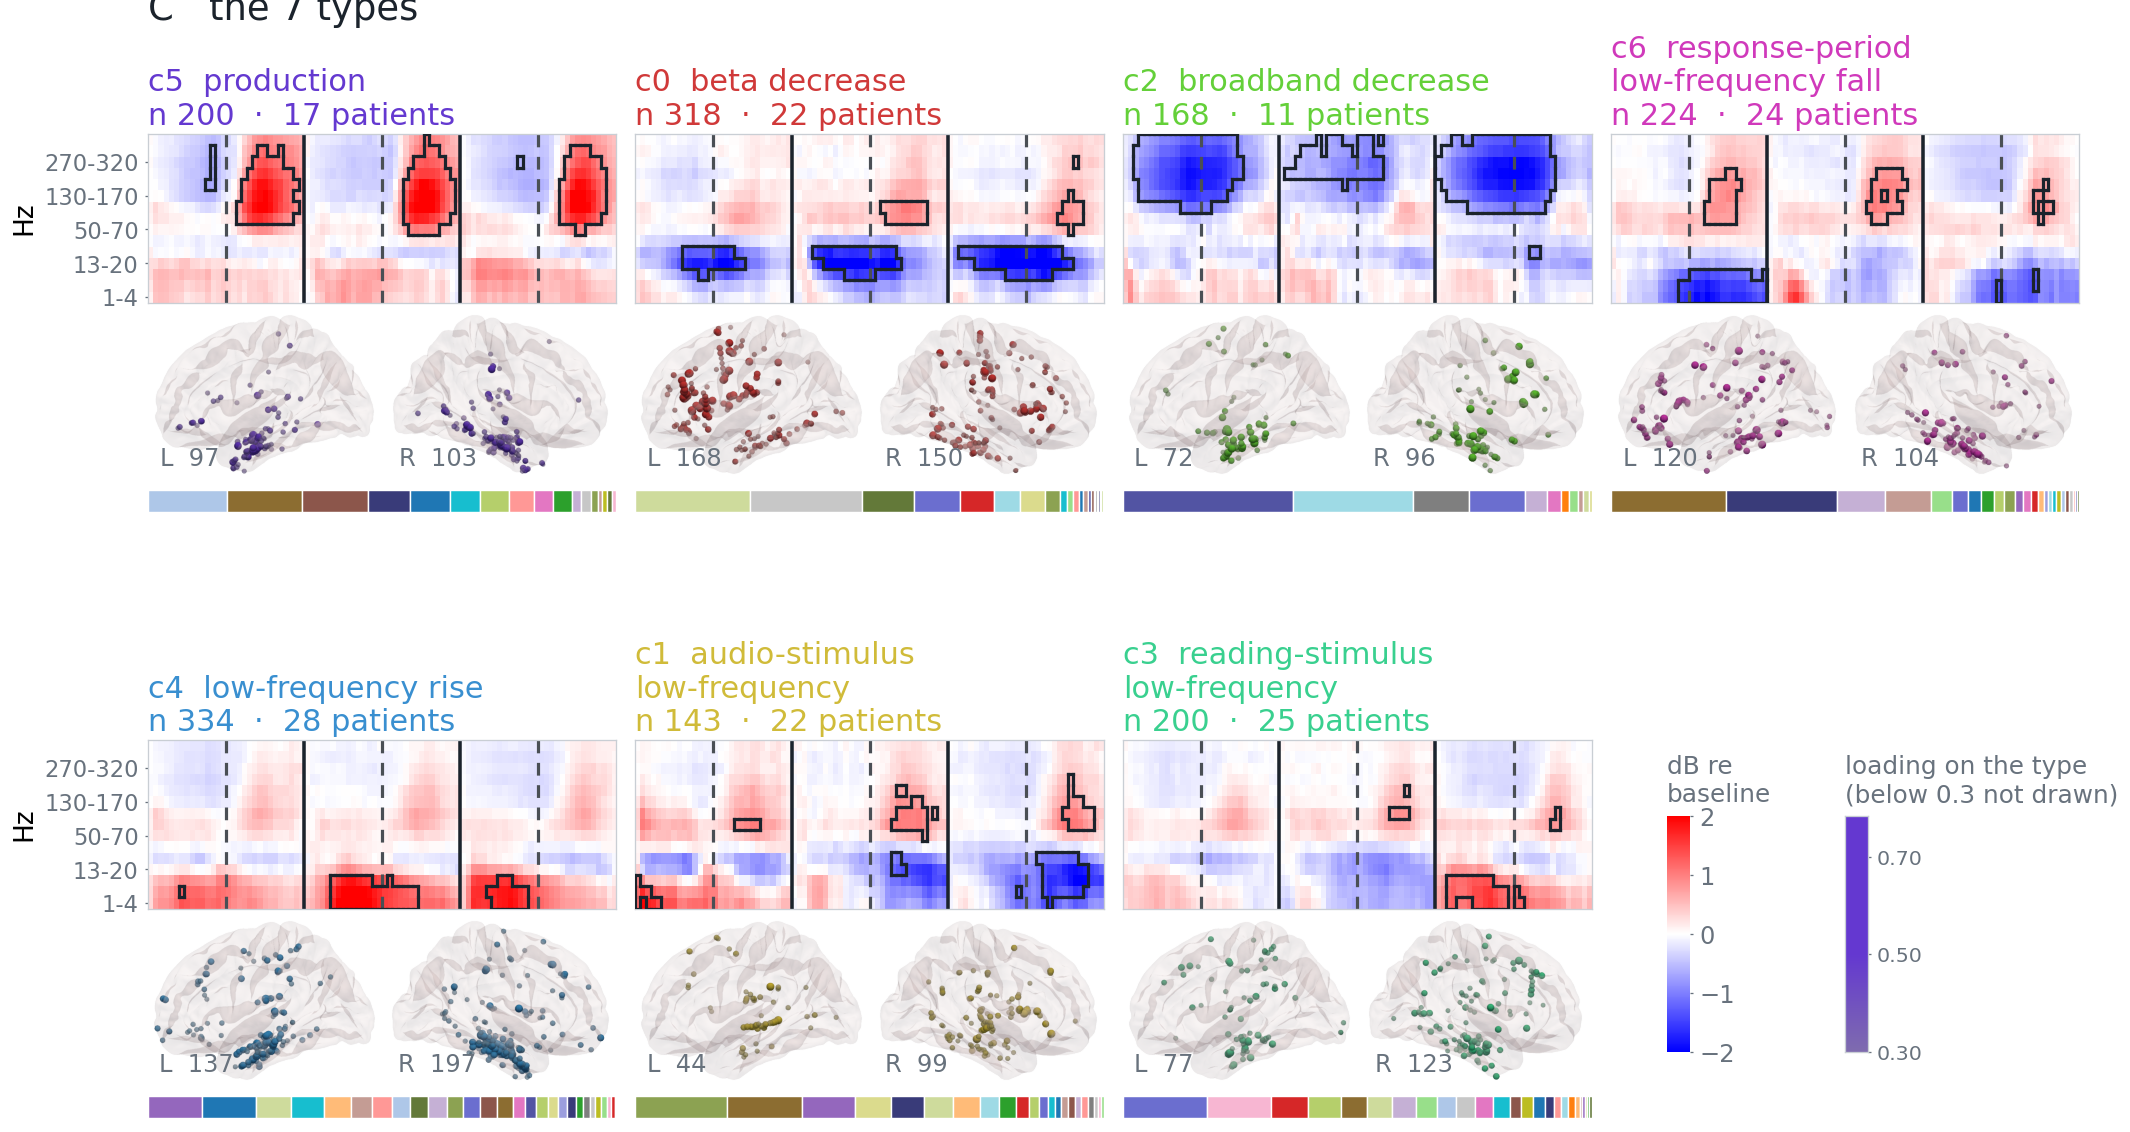
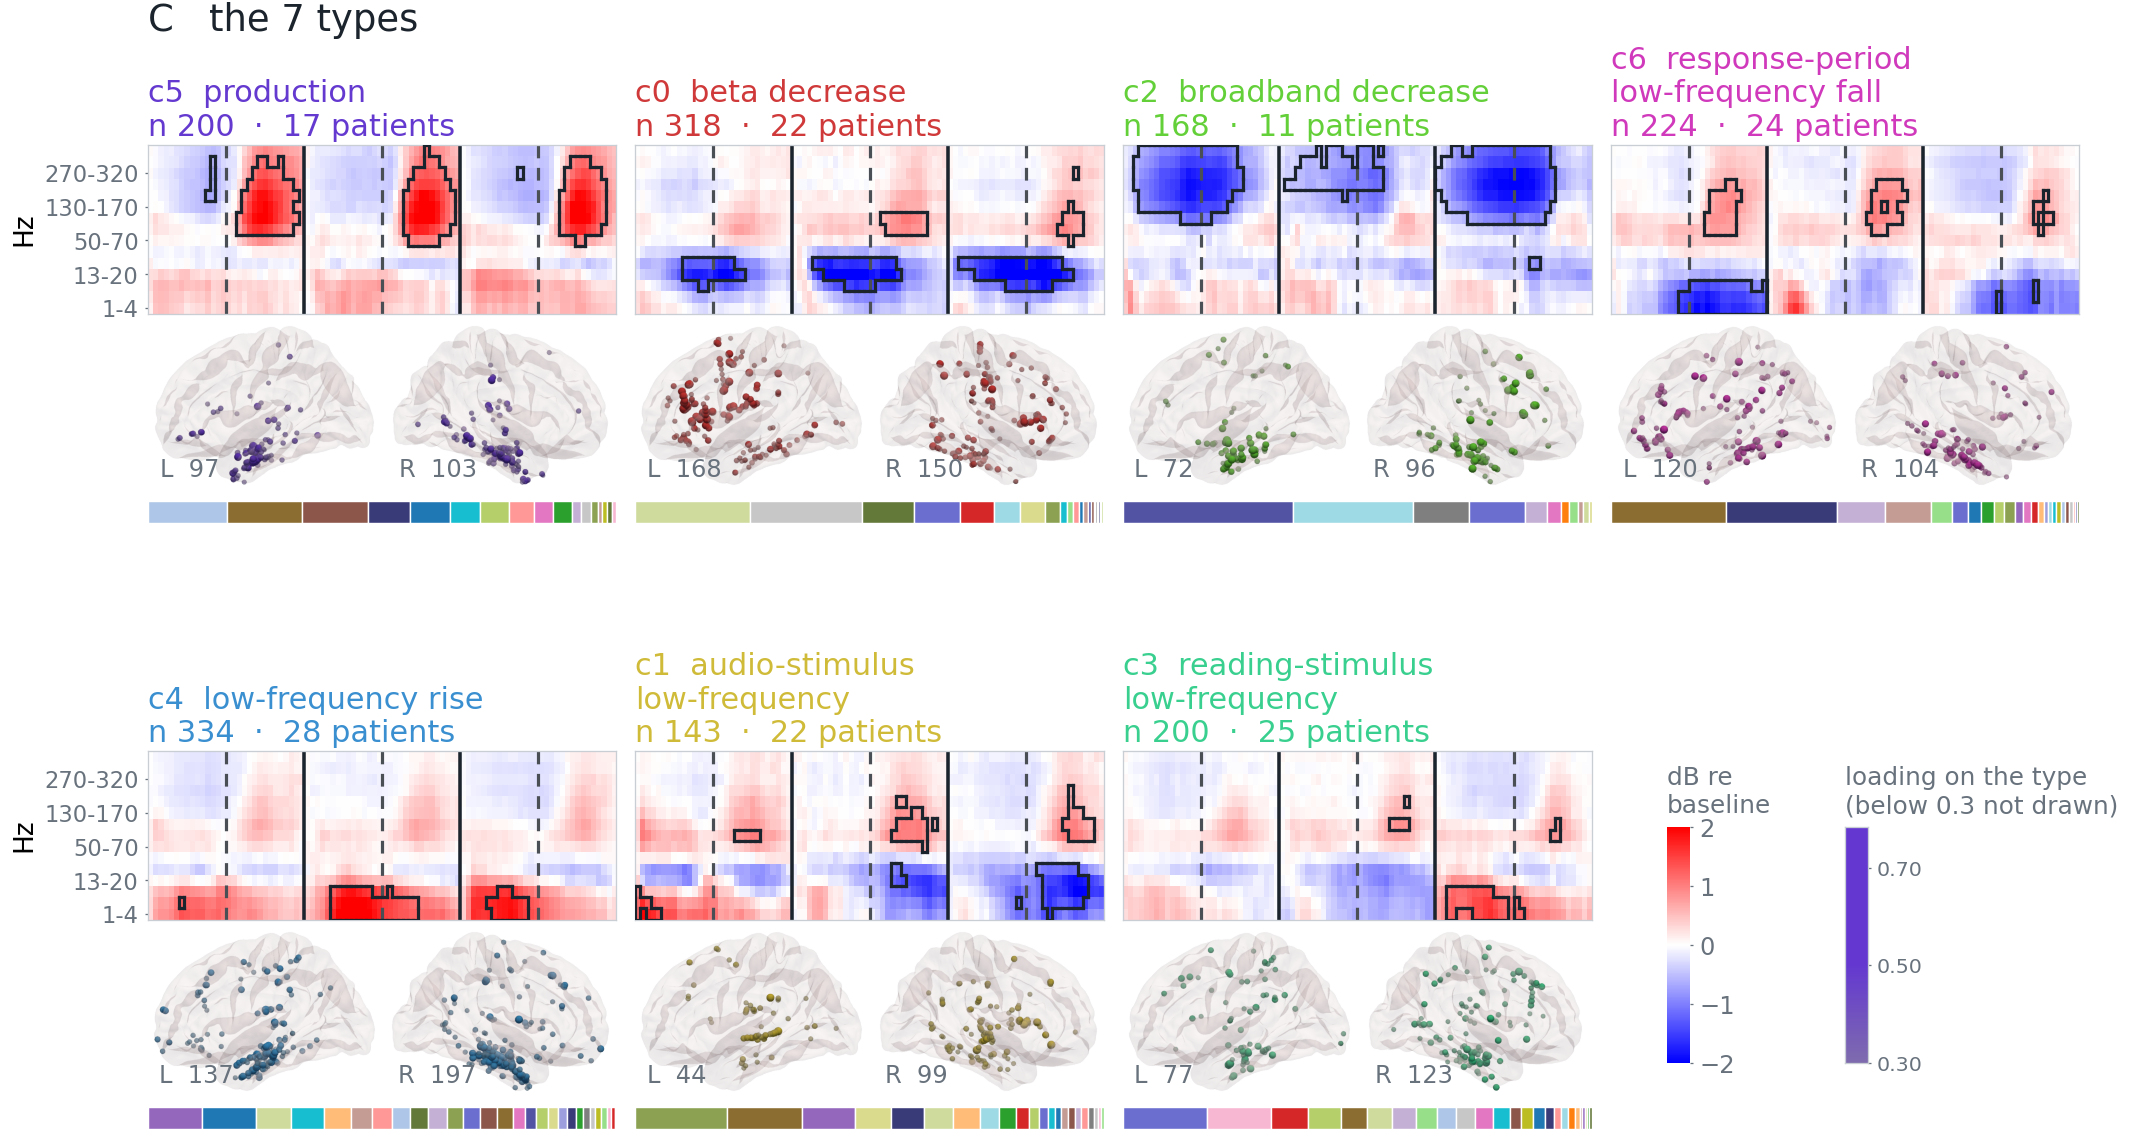
make_validation_story.py: the types crop keeps its header

diff --git a/02_FBM_Clustering/make_validation_story.py b/02_FBM_Clustering/make_validation_story.py
@@ -499,7 +499,7 @@ def build_figures(N):
     F = {}
     F["fig0"] = copy_png(PAPER / "FIG0_cohort_v17.png", "fig0_task_and_cohort.png")
     F["fig0b"] = copy_png(PAPER / "FIG0_cohort_supplement_v17.png", "fig0b_cohort_supplement.png")
-    F["fig1"] = crop(PAPER / f"FIG1a_{FSET}_cnmf_K{K}{tag}.png", (0.0, 0.278, 1.0, 1.0), "fig1_types.png")
+    F["fig1"] = crop(PAPER / f"FIG1a_{FSET}_cnmf_K{K}{tag}.png", (0.0, 0.271, 1.0, 1.0), "fig1_types.png")
     F["fig2a"] = copy_png(PAPER / f"FIG2_agreement_{FSET}_K{K}{tag}.png", "fig2a_ari_nmi_modal.png")
     F["fig2b"] = copy_png(PAPER / f"FIG4_K{K:02d}{tag}.png", "fig2b_matched_clusters.png")
     F["fig2c"] = copy_png(PAPER / f"FIG5_K{K:02d}{tag}.png", "fig2c_diagonal_share.png")

diff --git a/02_FBM_Clustering/outputs/clustering/paper2_validation/validation_story.md b/02_FBM_Clustering/outputs/clustering/paper2_validation/validation_story.md
@@ -1,6 +1,6 @@
 # Paper 2 · how the seven response types were validated
 
-*Built 2026-10-27 12:55 from the output files of cohort concat_source_v17, run 20261017_194301; every number below is read from a file named in `numbers.json`.*
+*Built 2026-10-27 12:56 from the output files of cohort concat_source_v17, run 20261017_194301; every number below is read from a file named in `numbers.json`.*
 
 Three questions decide whether a clustering is a result or an artefact. **Agreement**: do other descriptions and other algorithms find the same shapes? **Stability**: do the shapes come back when the patients change? **Separation**: are the shapes distinct from one another, and in which features? The sections below put the existing figures in that order, add the two that were missing (separation, scorecard), and end with anatomy as context.
 
